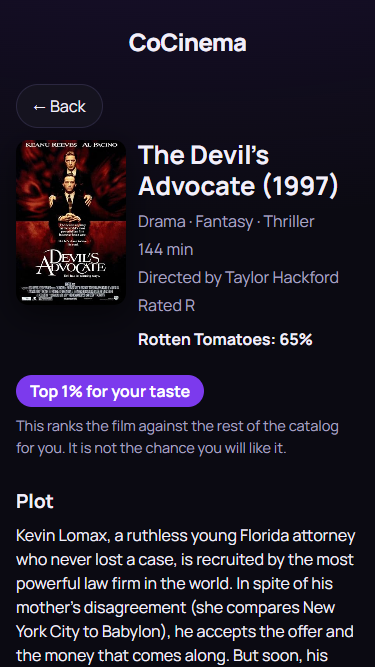
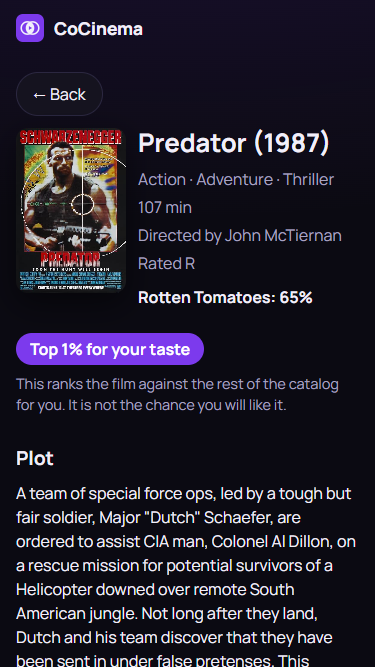
Update README and screenshots for the new screens

Changed region(s): [[0.0293, 0.1199, 0.968, 1.0], [0.1467, 0.03, 0.6747, 0.09], [0.0293, 0.0, 0.1173, 0.06]]

diff --git a/README.md b/README.md
@@ -8,21 +8,34 @@
 
 🎬 **Live:** [cocinema-pi.vercel.app](https://cocinema-pi.vercel.app)
 
-| Landing | Results with reasons | Film page | A list for two |
-| --- | --- | --- | --- |
-| <img src="docs/images/landing.png" alt="Landing screen with Quick and Full choices" width="200" /> | <img src="docs/images/results.png" alt="Top picks, each with a Because you rated line" width="200" /> | <img src="docs/images/film-page.png" alt="A film page with poster, details and plot" width="200" /> | <img src="docs/images/shared-list.png" alt="Films you would both enjoy, with each person's Top N%" width="200" /> |
+**On a phone (375 px)**
 
-Screenshots are taken at 375 px by the browser tests.
+| Landing | Rating screen | Results with reasons | Film page | A list for two |
+| --- | --- | --- | --- | --- |
+| <img src="docs/images/landing.png" alt="Landing screen with Quick and Full choices" width="150" /> | <img src="docs/images/rating-375-1.png" alt="The rating screen: poster, title, facts, genres and scores in one frame" width="150" /> | <img src="docs/images/results-375.png" alt="Top picks, each with a warm line saying which of your ratings drove it" width="150" /> | <img src="docs/images/film-page.png" alt="A film page with poster, details and plot" width="150" /> | <img src="docs/images/shared-list.png" alt="Films you would both enjoy, with each person's Top N%" width="150" /> |
+
+**On a desktop (1440 x 900): the rating frame does not move or scroll from one film to the next**
+
+| Film 1 | Film 2 | Film 3 |
+| --- | --- | --- |
+| <img src="docs/images/rating-1440-1.png" alt="First film in the rating frame" width="300" /> | <img src="docs/images/rating-1440-2.png" alt="Second film in the same frame, everything in the same place" width="300" /> | <img src="docs/images/rating-1440-3.png" alt="Third film in the same frame, everything in the same place" width="300" /> |
+
+| Results | Watch with a friend |
+| --- | --- |
+| <img src="docs/images/results-1440.png" alt="Results at desktop width" width="440" /> | <img src="docs/images/cowatch-card-1440.png" alt="The Watch with a friend card" width="440" /> |
+
+Screenshots are taken by the browser tests.
 
 ---
 
 ## What it does
 
-- **Quick or Full onboarding.** Nothing is pre-selected. Quick asks you to rate 10 films (10 of the 15 genres, a different 10 each session); Full covers all 15 genres. Skip any film you have not seen. The order of genres and films is shuffled per session from a saved seed, so a refresh resumes on the same film.
-- **Picks with reasons.** The top 5 each carry a line such as "Because you rated ...", built from the ratings that pushed the film up (and any that held it back). The rest follow in a compact grid. "Rate 5 more" adds five well-known unrated films, at most two per genre, to sharpen the list.
+- **Quick or Full onboarding.** Nothing is pre-selected. Quick asks you to rate 10 films (10 of the 15 genres, a different 10 each session); Full covers all 15 genres. Skip any film you have not seen. The order of genres and films is shuffled per session from a saved seed, so a refresh resumes on the same film. Each film is shown in one fixed frame (poster, title, year, runtime, Rotten Tomatoes, genre pills and the scores) that fits the window with no scrolling and keeps every control in the same place from film to film.
+- **Picks with reasons.** The top 5 each carry a short line naming the films you rated that drove the pick and the score you gave them ("Your 9 for X did most of the work here, with a nudge from Y (8)."), plus the one film that held it back when that pull is large. The wording is chosen from the film's id, so a list always reads the same way and no two top cards open alike. Every card also shows its year, runtime, Rotten Tomatoes score and genres. The rest follow in a compact grid. "Rate 5 more" adds five well-known unrated films, at most two per genre, to sharpen the list.
 - **Where a film sits for you.** Top picks show a rank; other films show "Top N% for your taste", its place among the films you have not rated. It ranks films against each other and is not the chance you will like one.
 - **Film pages.** Poster, genres, runtime, director, age rating, Rotten Tomatoes score, the full plot, a breakdown of how each film you rated pushed this one up or down, a YouTube trailer search, and which services carry it (subscription, rent or buy) in Canada, the US and the UK, from a dated Watchmode snapshot, with JustWatch search links (searches, not a guarantee of availability).
-- **Watch with a friend.** Share a link; your friend rates their own films and you both get one list of films that suit the two of you. There are also three made-up sample friends (horror, romance, sci-fi) to try it alone.
+- **Watch with a friend.** Share a link (the card's button copies it, or opens the share sheet where there is one); your friend rates their own films and you both get one list of films that suit the two of you. A "Watch with a friend" button next to "Rate 5 more" scrolls to the card. There are also three made-up sample friends (horror, romance, sci-fi) to try it alone.
+- **Home, Back and Start over never lose your ratings by accident.** The logo and a Home button on the rating screen go home; with at least one rating (and for the browser Back button) a dialog asks "Leave and keep your ratings?". The landing page then offers "Continue (n of N)" beside the Quick and Full choice, which still has no default. "Start over" asks before it clears anything.
 - **Installable and offline.** After one visit the app works with no connection (posters excepted) and can be added to the home screen. Ratings and position are saved in the browser. The screens are checked with an automated accessibility scan (axe).
 
 ## How it works
@@ -112,7 +125,7 @@ This is a snapshot, not live data. Under Watchmode's free plan the cached data m
 
 ### Offline use
 
-A service worker (`src/sw.js`) keeps one versioned cache (currently `cocinema-v6`); bumping the name on a deploy makes every phone drop the old cache. Code (HTML, JS, CSS) is network-first with a 4 second wait before falling back to the saved copy. Data files (`catalog.json`, `onboarding.json`, `availability.json`) are stale-while-revalidate. Other origins (posters) are never cached, so offline the cards show placeholders. The worker is registered only on https or 127.0.0.1, so the app works the same without it.
+A service worker (`src/sw.js`) keeps one versioned cache (currently `cocinema-v7`); bumping the name on a deploy makes every phone drop the old cache. Code (HTML, JS, CSS) is network-first with a 4 second wait before falling back to the saved copy. Data files (`catalog.json`, `onboarding.json`, `availability.json`) are stale-while-revalidate. Other origins (posters) are never cached, so offline the cards show placeholders. The worker is registered only on https or 127.0.0.1, so the app works the same without it.
 
 ### Routing
 
@@ -127,7 +140,7 @@ One HTML page, hash routes. `#/movie/<Wikidata id>` is a film page (it survives 
 
 ## Evaluation
 
-Run with `npm run evaluate` (fixed seed, no network). The headline numbers are generated into [`src/evaluation-stats.js`](src/evaluation-stats.js), which the landing page also reads, so this section and the page cannot disagree. Current values, with seed 20261007 and 1,000 synthetic users over 20 genres, each rating 12 films:
+Run with `npm run evaluate` (fixed seed, no network). The picks beat the genre baseline by a lift of 4.6x (precision@10 of 0.60 against 0.16). The headline numbers are generated into [`src/evaluation-stats.js`](src/evaluation-stats.js), which the landing page also reads, so this section and the page cannot disagree. Current values, with seed 20261007 and 1,000 synthetic users over 20 genres, each rating 12 films:
 
 | Measure | Value |
 | --- | --- |
@@ -143,8 +156,8 @@ Run with `npm run evaluate` (fixed seed, no network). The headline numbers are g
 
 ## Testing
 
-- **Unit tests:** `npm test` runs 213 tests (node:test) over 23 files, covering the recommender, explanations, sharing links, the combined ranking, catalog integrity and the Vercel config.
-- **Browser tests:** `npm run test:e2e` runs seven headless-Chrome scripts at 375 px (Playwright) and reported 231 passing checks in total: the main flow, the Quick/Full choice, the landing page, icons, co-watch, offline mode and update behaviour, and an axe accessibility scan with keyboard checks. It also saves the screenshots.
+- **Unit tests:** `npm test` runs 223 tests (node:test) over 23 files, covering the recommender, the why lines (determinism, variety, the held-back threshold, and that every film and number named comes from the real contribution data), runtime and rating formatting, sharing links, the combined ranking, catalog integrity and the Vercel config.
+- **Browser tests:** `npm run test:e2e` runs ten headless-Chrome scripts (Playwright) and reported 331 passing checks in total: the main flow, the Quick/Full choice, the landing page, icons, co-watch, offline mode and update behaviour, an axe accessibility scan with keyboard checks (including the confirmation dialog), the fixed rating frame (bounding boxes over six consecutive films at 1440x900, 1366x768, 1280x720, 1024x768, 375x667 and 360x640), Home, Back, Continue and the dialogs, and the results cards (no taller than before, no plot text, the co-watch entry). It also saves the screenshots.
 
 ## Tech stack
 
@@ -173,6 +186,7 @@ src/                runtime: static files served to the browser
   main.js           screens, hash routing and the rating flows
   recommend.js, similarity.js           taste profile, ranking, cosine similarity
   combine.js, cowatch.js, cowatchScreens.js, samples.js, flags.js   Watch with a friend
+  why.js, dialog.js  the "why" lines, and the one confirmation dialog
   detail.js, availability.js            film page and streaming text
   ratings.js        the only file that touches localStorage
   sw.js, offline.js service worker and offline notice
